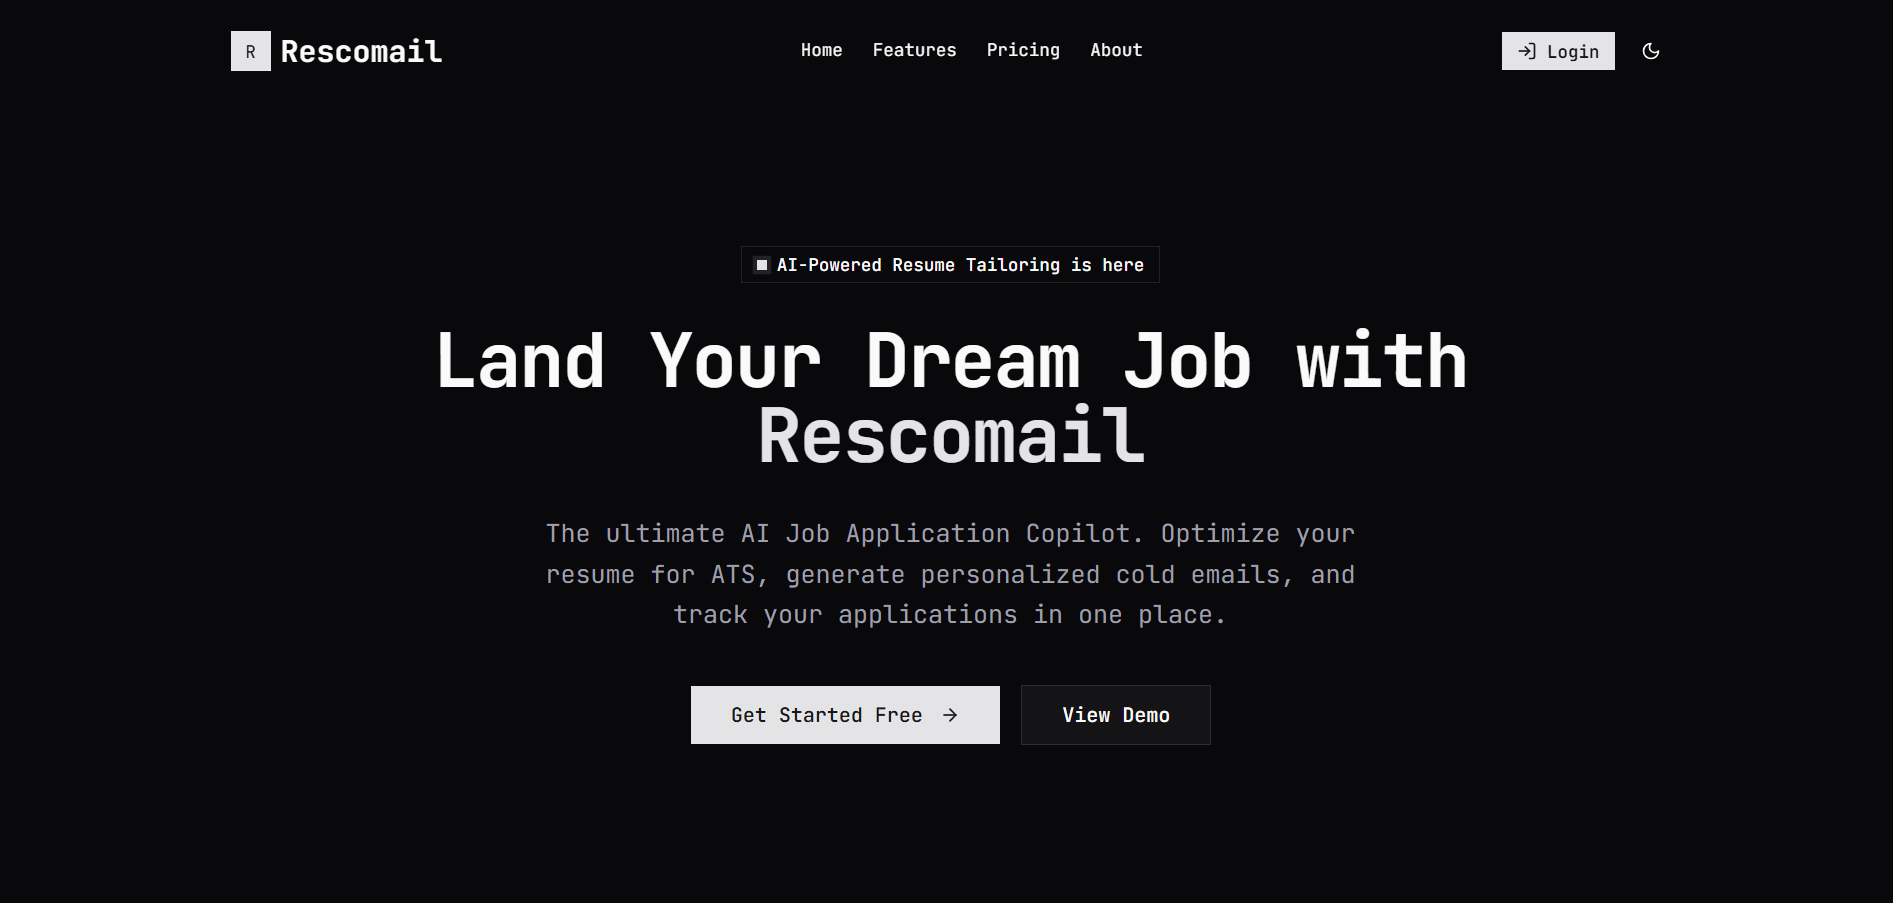
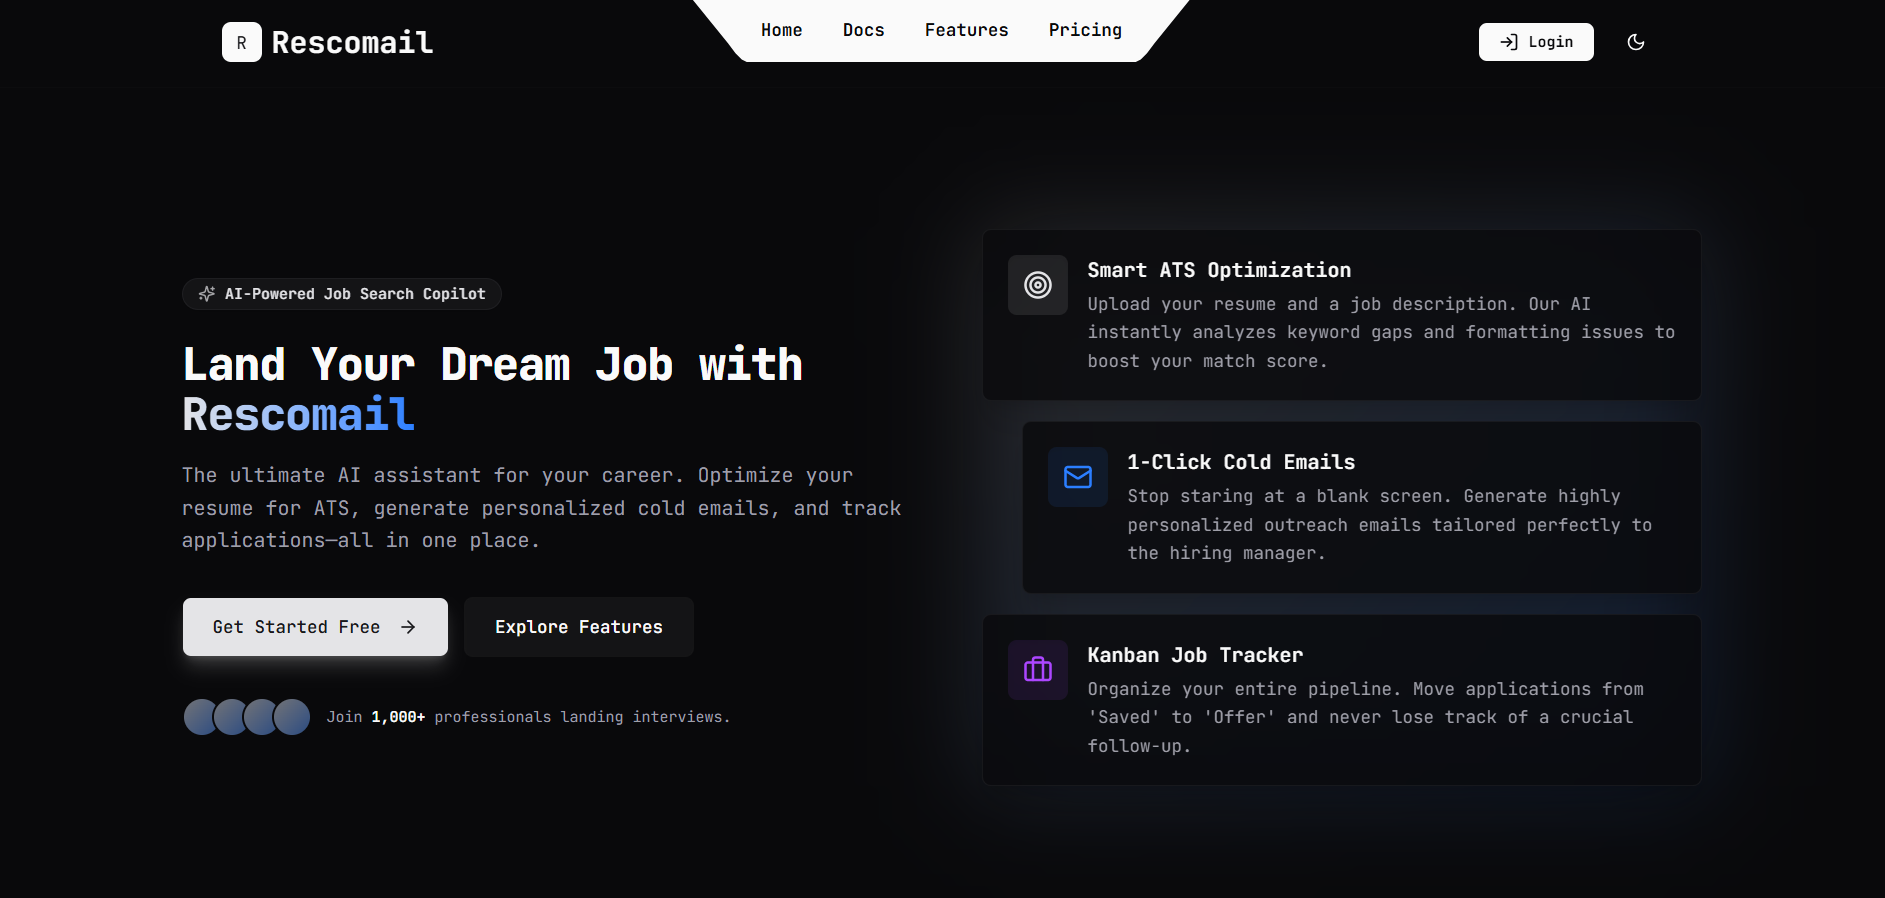
ui/ux tweacks in many components

diff --git a/app/resume/page.tsx b/app/resume/page.tsx
@@ -1,82 +1,44 @@
 import { Button } from "@/components/ui/button";
 import { Download } from "lucide-react";
-import { Tabs, TabsContent, TabsList, TabsTrigger } from "@/components/ui/tabs";
 import { Metadata } from "next";
 
 export const metadata: Metadata = {
   title: "Resume",
-  description: "View or download my Full Stack and AI Engineer resumes.",
+  description: "View or download my resume.",
 };
 
 const Page = () => {
   return (
     <div className="w-full min-h-screen mx-auto px-6 py-4 md:px-10 pb-20">
       <div className="flex flex-col items-center text-center border-b gap-3 md:gap-6 mt-6 md:mt-12 mb-8 md:mb-12 p-8">
-        <h1 className="text-3xl md:text-5xl font-bold">Resume</h1>
-        <p className="text-md md:text-xl text-muted-foreground font-semibold">
-          View or download my resumes.
+        <h1 className="text-2xl md:text-4xl font-bold">Resume</h1>
+        <p className="text-sm md:text-lg text-muted-foreground font-semibold">
+          View or download my resume.
         </p>
       </div>
 
-      <div className="max-w-5xl mx-auto">
-        <Tabs defaultValue="fullstack" className="w-full space-y-6">
-          <div className="flex flex-col sm:flex-row justify-between items-center gap-4">
-            <TabsList className="grid w-full sm:w-[400px] grid-cols-2 clay">
-              <TabsTrigger value="fullstack" className="data-[state=active]:bg-foreground! data-[state=active]:text-background!">Full Stack Engineer</TabsTrigger>
-              <TabsTrigger value="ai" className="data-[state=active]:bg-foreground! data-[state=active]:text-background!">AI Engineer</TabsTrigger>
-            </TabsList>
+      <div className="max-w-5xl mx-auto space-y-6">
+        <div className="flex justify-end">
+          <a
+            href="/Full_Stack_Resume.pdf"
+            download="VinayOppuri_Resume.pdf"
+            target="_blank"
+            rel="noopener noreferrer"
+          >
+            <Button variant="outline" className="gap-2">
+              <Download className="h-4 w-4" />
+              Download PDF
+            </Button>
+          </a>
+        </div>
 
-            {/* The download buttons are configured depending on which tab is active using Next.js nested state, but for a pure client-render bypass we can keep them inside TabsContent or just render 2 distinct TabsContents with their own headers */}
-          </div>
-
-          <TabsContent value="fullstack" className="space-y-6 mt-0">
-            <div className="flex justify-end">
-              <a
-                href="/Full_Stack_Resume.pdf"
-                download="VinayOppuri_FullStack_Resume.pdf"
-                target="_blank"
-                rel="noopener noreferrer"
-              >
-                <Button variant="outline" className="gap-2">
-                  <Download className="h-4 w-4" />
-                  Download Full Stack PDF
-                </Button>
-              </a>
-            </div>
-
-            <div className="w-full h-[800px] border rounded-xl overflow-hidden shadow-sm bg-muted/10">
-              <iframe
-                src="/Full_Stack_Resume.pdf#toolbar=0"
-                className="w-full h-full"
-                title="Full Stack Resume PDF"
-              />
-            </div>
-          </TabsContent>
-
-          <TabsContent value="ai" className="space-y-6 mt-0">
-            <div className="flex justify-end">
-              <a
-                href="/AI_Engineer_Resume.pdf"
-                download="VinayOppuri_AIEngineer_Resume.pdf"
-                target="_blank"
-                rel="noopener noreferrer"
-              >
-                <Button variant="outline" className="gap-2">
-                  <Download className="h-4 w-4" />
-                  Download AI PDF
-                </Button>
-              </a>
-            </div>
-
-            <div className="w-full h-[800px] border rounded-xl overflow-hidden shadow-sm bg-muted/10">
-              <iframe
-                src="/AI_Engineer_Resume.pdf#toolbar=0"
-                className="w-full h-full"
-                title="AI Engineer Resume PDF"
-              />
-            </div>
-          </TabsContent>
-        </Tabs>
+        <div className="w-full h-[800px] border rounded-xl overflow-hidden shadow-sm bg-muted/10">
+          <iframe
+            src="/Full_Stack_Resume.pdf#toolbar=0"
+            className="w-full h-full"
+            title="Resume PDF"
+          />
+        </div>
       </div>
     </div>
   );

diff --git a/components/core/project-cards.tsx b/components/core/project-cards.tsx
@@ -3,7 +3,7 @@ import Link from "next/link";
 import { Badge } from "@/components/ui/badge";
 import { Card, CardContent, CardHeader, CardTitle } from "@/components/ui/card";
 import { Tooltip, TooltipContent, TooltipTrigger } from "@/components/ui/tooltip";
-import { Globe, Github } from "lucide-react";
+import { Globe, Github, ChevronRightIcon } from "lucide-react";
 import { ProjectsData } from "@/data";
 import { cn } from "@/lib/utils";
 
@@ -19,7 +19,7 @@ export function ProjectCards({ projects }: ProjectCardsProps) {
       {projects.map((project) => (
         <Card
           key={project.title}
-          className="overflow-hidden p-0 group clay-card clay-interactive"
+          className="overflow-hidden p-0 pb-6 group clay-card clay-interactive border-none!"
         >
           <div className="relative h-48 md:h-48 w-full project-bg-ocean overflow-hidden group">
             <div className="absolute top-2 left-2 z-20">
@@ -49,6 +49,18 @@ export function ProjectCards({ projects }: ProjectCardsProps) {
                 </span>
               </Badge>
             </div>
+
+            <div className="absolute top-2 right-2 z-20">
+              <Link
+                href={`/projects/${project.id}`}
+                className="flex items-center gap-2 text-sm font-medium text-muted-foreground hover:text-foreground transition-colors duration-300"
+              >
+                <span className="text-foreground/90 rounded-md p-1 border border-white/10 bg-black/40 backdrop-blur-md shadow-sm">
+                  <ChevronRightIcon className="w-4 h-4" />
+                </span>
+              </Link>
+            </div>
+
             <Image
               src={project.imageUrl}
               alt={project.title}
@@ -106,7 +118,7 @@ export function ProjectCards({ projects }: ProjectCardsProps) {
             </div>
           </CardHeader>
 
-          <CardContent className="flex flex-col gap-2">
+          <CardContent className="flex flex-col gap-4">
             <p className="text-muted-foreground text-xs md:text-sm leading-relaxed">
               {project.description}
             </p>
@@ -116,33 +128,34 @@ export function ProjectCards({ projects }: ProjectCardsProps) {
                 Technologies
               </p>
 
-              {project.tags.map((tag, id) => (
-                <Tooltip key={id}>
-                  <TooltipTrigger asChild>
-                    <Badge className="bg-transparent p-1">
-                      <span className="text-md">{tag.logo}</span>
-                    </Badge>
-                  </TooltipTrigger>
-                  <TooltipContent>
-                    <p>{tag.name}</p>
-                  </TooltipContent>
-                </Tooltip>
-              ))}
-            </div>
-
-            <div className="flex flex-row justify-end items-center pb-4 pt-2">
-              <Link
-                href={`/projects/${project.id}`}
-                className="group/link flex items-center gap-2 text-sm font-medium text-muted-foreground hover:text-foreground transition-colors duration-300"
-              >
-                <span className="relative">
-                  View Details
-                  <span className="absolute -bottom-1 left-0 w-0 h-px bg-foreground transition-all duration-300 group-hover/link:w-full" />
-                </span>
-                <span className="group-hover/link:translate-x-1 transition-transform duration-300">
-                  →
-                </span>
-              </Link>
+              <div className="flex flex-wrap items-center gap-1">
+                {project.tags.slice(0, 6).map((tag, id) => (
+                  <Tooltip key={id}>
+                    <TooltipTrigger asChild>
+                      <Badge className="bg-transparent p-1">
+                        <span className="text-md">{tag.logo}</span>
+                      </Badge>
+                    </TooltipTrigger>
+                    <TooltipContent>
+                      <p>{tag.name}</p>
+                    </TooltipContent>
+                  </Tooltip>
+                ))}
+                {project.tags.length > 6 && (
+                  <Tooltip>
+                    <TooltipTrigger asChild>
+                      <Link href={`/projects/${project.id}`}>
+                        <Badge className="bg-transparent text-foreground p-1">
+                          <span className="text-xs font-medium px-1">+{project.tags.length - 6}</span>
+                        </Badge>
+                      </Link>
+                    </TooltipTrigger>
+                    <TooltipContent>
+                      <p>View all technologies</p>
+                    </TooltipContent>
+                  </Tooltip>
+                )}
+              </div>
             </div>
           </CardContent>
         </Card>

diff --git a/data/projects.ts b/data/projects.ts
@@ -4,9 +4,11 @@ import {
   SiDrizzle,
   SiFastapi,
   SiGooglegemini,
+  SiHuggingface,
   SiNextdotjs,
   SiNodedotjs,
   SiPostgresql,
+  SiPython,
   SiReact,
   SiShadcnui,
   SiTailwindcss,
@@ -27,39 +29,42 @@ export const ProjectsData = [
     id: "rescomail",
     title: "Rescomail",
     description:
-      "Rescomail is an AI platform that analyzes resumes against job descriptions to score match, highlight gaps, and suggest targeted improvements.",
+      "Rescomail is a comprehensive AI job application copilot for resume parsing, deep ATS intelligence, and highly personalized cold email generation.",
     features: [
       "Upload resumes (PDF) and parse them into structured, machine-readable data",
-      "AI-powered resume-to-job description matching with an overall percentage score and category breakdowns",
-      "Identify matched and missing keywords against job requirements",
+      "AI-powered ATS intelligence pipeline utilizing semantic embeddings for predictive compatibility scoring",
+      "Identify matched keywords and critical skill gaps against job requirements with RAG-grounded recruiter guidance",
       "Generate strengths, risks, and actionable rewrite suggestions per evidence gap",
-      "Persist and browse full ATS analysis history per resume",
-      "Email/password and Google OAuth authentication with password-reset flow",
-      "Organization-level multi-tenancy with per-org subscription and usage tracking",
+      "Auto-generate dynamic cold emails enriched with real-time company web scraping (Tavily)",
+      "Persist and browse full ATS analysis and cold outreach history per resume",
+      "Seamless authentication (Email/Google OAuth) and robust session management via Better Auth",
+      "Organization-level multi-tenancy with per-org subscription, billing, and credit usage tracking",
     ],
     motivation:
-      "I built Rescomail to help candidates understand why their resumes get filtered out by ATS systems before a human ever reads them. The goal was an explainable, evidence-based scoring engine that surfaces concrete keyword gaps and rewrite opportunities — not just a pass/fail verdict.",
+      "I built Rescomail to help candidates understand why their resumes get filtered out by ATS systems before a human ever reads them. The goal was to provide an explainable, evidence-based scoring engine that surfaces concrete keyword gaps and rewrite opportunities, while also streamlining the outreach process through highly targeted, AI-generated cold emails.",
     tags: [
       tag("Next.js", SiNextdotjs, "h-5 w-5 text-foreground"),
       tag("TypeScript", SiTypescript, "h-5 w-5 text-[#3178C6]"),
+      tag("FastAPI", SiFastapi, "h-5 w-5 text-[#009688]"),
+      tag("Python", SiPython, "h-5 w-5 text-[#3776AB]"),
       tag("Tailwind CSS", SiTailwindcss, "h-5 w-5 text-[#38BDF8]"),
       tag("Drizzle ORM", SiDrizzle, "h-5 w-5 text-foreground"),
       tag("NeonDB", SiPostgresql, "h-5 w-5 text-[#336791]"),
       tag("Gemini AI", SiGooglegemini, "h-5 w-5 text-[#4285F4]"),
+      tag("Hugging Face", SiHuggingface, "h-5 w-5 text-[#FFD21E]"),
       tag("Turborepo", SiTurborepo, "h-5 w-5 text-foreground"),
       tag("Shadcn UI", SiShadcnui, "h-5 w-5 text-foreground"),
-      tag("FastAPI", SiFastapi, "h-5 w-5 text-[#009688]"),
     ],
     imageUrl: "/projects/rescomail.png",
     liveUrl: "https://rescomail.vinayweb.in/",
     githubUrl: "https://github.com/vinay-oppuri/rescomail",
-    status: "Building",
+    status: "Operational",
   },
   {
     id: "mono",
     title: "Mono",
     description:
-      "Mono is an AI agent platform that lets users create custom AI assistants with unique personalities and instructions, then chat with them persistently — similar to building your own GPT.",
+      "Mono is an AI agent platform that lets users create custom AI assistants with unique personalities and instructions, then chat with them persistently",
     features: [
       "Sign up with email/password, GitHub, or Google via Better Auth",
       "Create and manage AI agents with custom names and instructions",

diff --git a/components/core/experience-list.tsx b/components/core/experience-list.tsx
@@ -40,14 +40,13 @@ export function ExperienceList({ items }: ExperienceListProps) {
                   </h3>
 
                   {exp.status && (
-                    <Badge className="flex items-center gap-1 bg-green-600/20 text-[9px] md:text-xs text-foreground/80 rounded-sm px-1 py-0.5">
-                      <span className="w-2 h-2 rounded-full bg-green-500 animate-pulse" />
-                      {exp.status}
+                    <Badge className="h-4 w-4 flex items-center bg-green-600/20 text-foreground/80 rounded-full">
+                      <span className="absolute z-50 w-2 h-2 rounded-full bg-green-500 animate-pulse" />
                     </Badge>
                   )}
                 </AccordionTrigger>
 
-                <p className="text-xs md:text-sm font-serif text-muted-foreground">
+                <p className="text-xs md:text-sm font-mono text-muted-foreground">
                   {exp.role}
                 </p>
               </div>

diff --git a/app/globals.css b/app/globals.css
@@ -345,7 +345,7 @@ html {
 .dark .clay-card {
   @apply bg-background/20;
   box-shadow:
-    inset 4px 4px 8px rgba(255, 255, 255, 0.1),
+    inset 4px 4px 16px rgba(255, 255, 255, 0.05),
     inset -4px -4px 8px rgba(0, 0, 0, 0.35),
     4px 4px 20px rgba(0, -0, 0, 0.2);
 }

diff --git a/components/core/3-Experience.tsx b/components/core/3-Experience.tsx
@@ -8,7 +8,7 @@ const ExperienceAccordion = () => {
   const topExperiences = experiences.slice(0, 2);
 
   return (
-    <div className="w-full mx-auto px-2 md:px-0 py-4">
+    <div className="w-full mx-auto px-0 py-4">
       <p className="text-sm text-muted-foreground font-mono">Featured</p>
       <h2 className="text-2xl font-semibold mb-8">Experience</h2>
       <ExperienceList items={topExperiences} />

diff --git a/components/core/4-Projects.tsx b/components/core/4-Projects.tsx
@@ -8,7 +8,7 @@ const ProjectsPage = () => {
   const projects = ProjectsData.slice(0, 2)
 
   return (
-    <section className="flex flex-col gap-6 w-full px-2 md:px-0 py-4">
+    <section className="flex flex-col gap-6 w-full px-0 py-4">
       {/* Header */}
       <div className="flex flex-col gap-1">
         <p className="text-sm text-muted-foreground font-mono">Featured</p>

diff --git a/components/core/5-AboutMe.tsx b/components/core/5-AboutMe.tsx
@@ -13,7 +13,7 @@ const AboutPage = () => {
   const uniqueSkills = Array.from(new Map(allSkills.map((item) => [item.name, item])).values());
 
   return (
-    <section className="flex flex-col w-full px-2 md:px-0 py-4">
+    <section className="flex flex-col w-full px-0 py-4">
 
       {/* Heading */}
       <div className="flex flex-col gap-1 mb-6">

diff --git a/components/core/8-Contact.tsx b/components/core/8-Contact.tsx
@@ -65,7 +65,7 @@ export const ContactDialog = () => {
     }
 
     return (
-        <section className="flex flex-col gap-6 w-full px-2 md:px-0 py-8">
+        <section className="flex flex-col gap-6 w-full px-0 py-8">
             {/* Super Heading / Metadata overlay */}
             <div className="flex flex-col gap-1 mb-2">
                 <p className="text-sm text-muted-foreground">Let&apos;s</p>

diff --git a/app/projects/[id]/page.tsx b/app/projects/[id]/page.tsx
@@ -1,5 +1,4 @@
 import { ProjectsData } from "@/data";
-import { Badge } from "@/components/ui/badge";
 import { Button } from "@/components/ui/button";
 import { Tooltip, TooltipContent, TooltipTrigger } from "@/components/ui/tooltip";
 import { ArrowLeft, ExternalLink, Github } from "lucide-react";